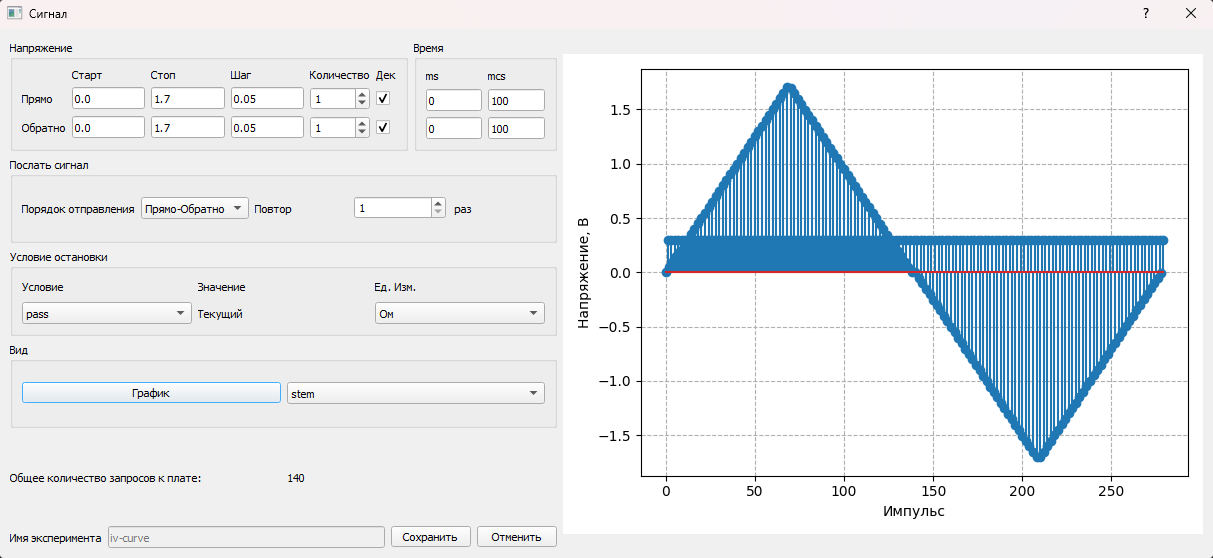
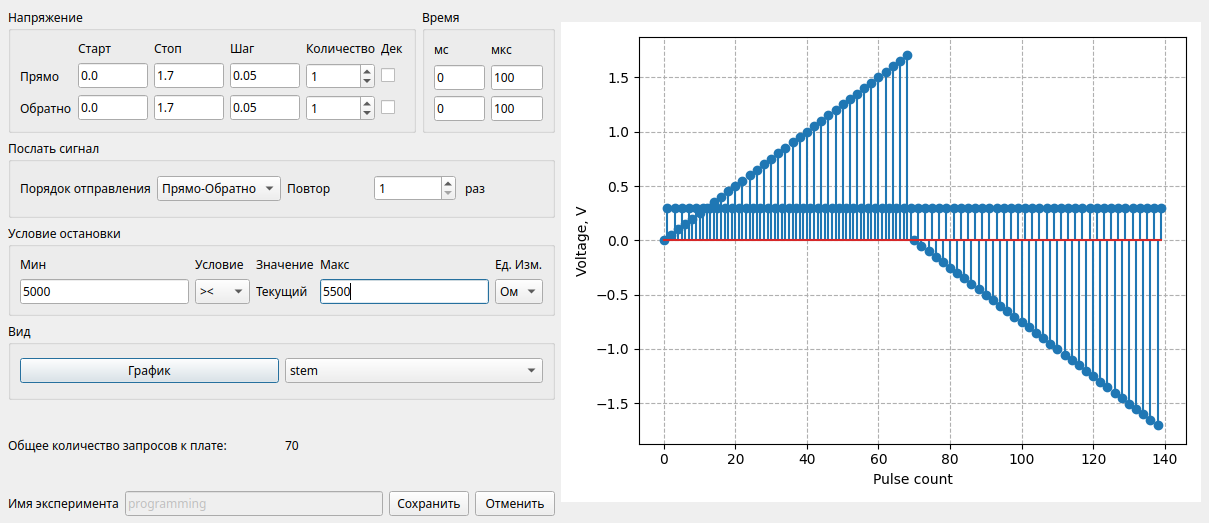
Russian manual finished

diff --git a/docs/README_rus.md b/docs/README_rus.md
@@ -1,28 +1,25 @@
 # Руководство пользователя MemriBoard
 
-## Содержание FIXME
+## Содержание
 
 - [**Общие сведения о программе**](#общие-сведения-о-программе)
-- [**Connecting the crossbar array**](#connecting-the-crossbar-array)
-  - [Creating new database entry](#creating-a-database-entry-for-new-crossbar-array)
-    - [Settings](#settings)
-- [**Main window**](#main-window)
-  - [Shortcuts](#shortcuts)
-- [**Working with individual cells**](#working-with-individual-cells)
-  - [History window](#history-window)
-- [**Configuring your experiment**](#configuring-your-experiment)
-  - [Signal editing](#signal-editing-window)
-    - [Standart pulse sequence](#standart-pulse-sequence)
-    - [Terminate condition](#terminate-condition)
-- [**Applying the experiment**](#applying-the-experiment)
-- [**Testing multiple cells**](#testsing-multiple-cells)
-
-- [Общие сведения о программе](#общие-сведения-о-программе)
-- [Работа с ячейками](#работа-с-ячейками)
+- [**Подключение измерительного устройства**](#подключение-измерительного-устройства)
+  - [Добавление нового кроссбара](#добавление-нового-кроссбара)
+    - [Настройки](#настройки)
+- [**Главное окно**](#главное-окно)
+  - [Дополнительный функционал](#другие-функции-главного-окна)
+- [**Работа с отдельными ячейками**](#работа-с-отдельными-ячейками)
+  - [Окно истории ячейки](#окно-истории-ячейки)
+- [**Конфигурация эксперимента**](#конфигурация-эксперимента)
+  - [Редактирование сигнала](#окно-редактирования-сигнала)
+    - [Стандартная последовательность импульсов](#стандартная-последовательность-импульсов)
+    - [Условие остановки](#условие-остановки)
+- [**Проведение эксперимента**](#проведение-эксперимента)
+- [**Выполнение теста на нескольких ячейках**](#выполнение-теста-на-нескольких-ячейках)
 
 ## Общие сведения о программе
 
-<Программа может быть запущена на любой операционной системе c поддержкой python 3.9 и выше.
+Программа может быть запущена на любой операционной системе c поддержкой python 3.9 и выше.
 
 ### Подключение измерительного устройства
 
@@ -99,36 +96,94 @@
 
 ![Окно плана эксперимента](assets_rus/new_exp.png)
 
-- "Новый эксперимент" - открывает окно создания эксперимента.
-Позволяет создать новый эксперимент с ячейкой. Он составляется из предустановленных сигналов, присутствует возможность добавить свой вид сигнала, для этого нужно нажать кнопку "Новый эксперимент". Для добавления сигнала в эксперимент нужно выбрать сигнал и кликнуть два раза левой кнопкой мыши, или нажать кнопку "Добавить в план". 
-Справа расположен столбец с планом эксперимента, где расписана последовательность сигналов. При необходимости можно править параметры сигнала, переместить его относительно остальных, или удалить. После настройки параметров необходимо ввести название эксперимента.
+Окно позволяет создать новый эксперимент с ячейкой. Он составляется из тикетов &mdash; предустановленных сигналов, например, iv-curve, endurance, programming, и т. д. В план эксперимента можно добавить несколько тикетов из левой части окна (кнопка **Добавить в план**), или создать новый тике (кнопка **Новый** в левом нижнем углу).
+Кнопка **Загрузить** в правой части окна позволяет загрузить эксперимент, который ранее был применен к одной из ячеек. Все параметры тикетов, составляющих эксперимент, будут сохранены.
+Доступен **импорт** тикетов из файлов *.json*.
+В правой части окна можно ввести **название эксперимента**, оно будет отображаться в истории ячейки.
 
+По умолчанию в приложении доступны следующие тикеты:
 
-При редактировании сигнала, или создании нового, открывается окно редактирования сигнала. Каждый сигнал состоит из двух частей - настраиваемый импульс воздействия на ячейку, и импульс считывания состояния ячейки. Импульс взаимодействия имеет настройки амплитуды, длительности, и порядок подачи сигнала в случае его множественности. Сигнал может быть как прямой (reset), так и обратный (set). Присутствует возможность задать причину прерывания сигнала и предварительный просмотр его графика. Старт, стоп и шаг указываются в вольтах.
-Например, для снятия ВАХ ячейки, указываются такие параметры: 
+- *blank* &mdash; пустой тикет. На его основе можно создать свой.
+- *endurance* &mdash; стандартный тест на выносливость при импульсном переключении для мемристорных ячеек памяти.
+- *iv-curve*, *iv-curve-set*, *iv-curve-reset*, *iv-curve-reversed* &mdash; тикеты для измерения вольт-амперных характеристик.
+- *measure* &mdash; тикет для измерения сопротивления ячейки.
+- *programming*, *programming-reversed* &mdash; для программирования необходимого резистивного состояния (см. [Условие остановки](#условие-остановки)).
+- *retention* &mdash; тикет для измерения длительности удержания логических состояний.
+- *plast-dep-pot*, *plast-pot-dep* &mdash; тикеты для изучения потенциации и депрессии мемристорных ячеек.
 
-|       |Старт|Стоп|Шаг |Количество|Декремент|МС|МКС|
-|-------|-----|----|----|----------|---------|--|---|
-|Прямо  |0.0  |1.6 |0.05|     1    |    +    | 0|100|
-|Обратно|0.0  |1.2 |0.05|     1    |    +    | 0|100|
+### Окно редактирования сигнала
 
-*Подача сигнала: прямо-обратно; Повторить: 1 раз*
+Окно открывается из [плана эксперимента](#конфигурация-эксперимента) и позволяет настроить сигнал, который применяется к мемристорной ячейке в рамках одного тикета.
 
-###### Результат настройки сигнала:
 ![Окно настройки сигнала](assets_rus/signal.png)
 
-Для запуска созданного эксперимента необходимо нажать кнопку "Применить к ячейке" для применения к выбранной ячейке.
-После этого откроется окно проведения эксперимента. Оно содержит: 
-- Поле отрисовки графика. Есть возможность изменить отображаемые по осям данные и изменить метод отображения (точки, линия, звёздочки). Если отрисовка графика в реальном времени не требуется, реккомендуется выключить настройку "Отображение" ниже. 
-- Панель управления экспериментом. Кнопки запуска, паузы и остановки эксперимента, а так же шкала прогресса проведения эксперимента.
-После выполнения эксперимента будет показано уведомление о завершении, и в случае срабатывания программного [ограничителя тока](#настройки).
-###### Окно проведения эксперимента с ВАХ ячейки:
+Амплитуды импульсов set и reset контролируются независимо в верхней части окна: задается амплитуда импульса (в вольтах) и его ширина (время в мс и мкс). Поле **Количество** позволяет указать количество разверток set или reset в рамках одного цикла set-reset. Поле **Повтор** задает количество циклов set-reset. Если флаг **Дек** выключен, развертка проходит от напряжения **Старт** до напряжения **Стоп** с заданным **Шагом**. Если флаг **Дек** включен, развертка также идет от **Стоп** до **Старт**.
+Кнопка **График** позволяет посмотреть график сигнала.
+Например, измерение 10 вольт-амперных характеристик можно провести следующими параметрами:
+
+|             |Старт| Стоп|  Шаг | Количество |Декремент|Время, мс|Время, мкс|
+|-------------|-----|-----|------|------------|---------|---------|----------|
+|  **Прямо**  | 0.0 | 1.6 | 0.05 |     1      |    +    |    0    |    100   |
+| **Обратно** | 0.0 | 1.2 | 0.05 |     1      |    +    |    0    |    100   |
+
+**Подача сигнала**: прямо-обратно; **Повторить**: 10 раз
+
+#### Стандартная последовательность импульсов
+
+Каждая точка измерения состоит из двух частей &mdash; импульса напряжения с настраиваемой амплитудой для изменения резистивного состояния ячейки, и импульса чтения, следующего за ним. Амплитуда импульса переключения задается в файле *settings.ini*. Амплитуда переключающих импульсов задается в [окне редактирования сигнала](#окно-редактирования-сигнала).
+Во время эксперимента сопротивление ячейки контролируется только импульсами чтения постоянной амплитуды.
+
+#### Условие остановки
+
+Условие остановки тикет может быть задано в [окне редактирования сигнала](#окно-редактирования-сигнала), оно проверяется ***при получении каждой точки измерения***. Условие **pass** выключает условие остановки. Для других условий необходимо ввести условие в поле **Значение** (или полях **Мин** и **Макс**), оно будет сравниваться с **текущим** значением сопротивления.
+Например, на [рисунке с окном редактирования сигнала](#окно-редактирования-сигнала) демонстрируется стандартное условие остановки для программирования резистивных состояний ***алгоритмом write-verify***: установлено **Условие** **><**. Эксперимент (только для этого тикета) автоматически остановится, когда сопротивление ячейки окажется в диапазоне от 5000 до 5500 Ом.
+Для повышения вероятности успешного программирования ячейки можно увеличить количество циклов set-reset.
+После тикета программирования можно добавить другие тикеты (например, retention) для создания автономного эксперимента.
+
+## Проведение эксперимента
+
+Окно проведения эксперимента открывается из [окна конфигурации эксперимента](#конфигурация-эксперимента) при помощи кнопки **применить к ячейке**.
+
 ![Окно проведения эксперимента](assets_rus/apply.png)
-</p>
 
+Окно содержит поле отрисовки графика. Если отрисовка графика в реальном времени не требуется, можно его выключить (флаг **Вид**).
+Сдвиг области отрисовки осуществляется левой кнопкой мыши. По нажатию на правую кнопку мыши открывается меню с настройками отображения. К примеру, можно установить **логарифмический масштаб** графика открытием меню &rarr; Plot Options &rarr; Transforms &rarr; log Y.
+В нижней части окна можно выбрать, данные, отображаемые во время эксперимента: **Ось X** может показывать *Отсчеты* (номер импульса) или *Напряжение*. **Ось Y** может отображать *Сопротивление*, *Ток* или *Отсчеты АЦП*. Эти настройки можно также изменять колесиком мыши.
+Есть возможность изменить отображаемые по осям данные и изменить метод отображения (*точки*, *линия*, *звёздочки*).
+В нижней части окна располагается **панель управления экспериментом**. Здесь находятся кнопки начала, паузы и остановки эксперимента.
+После выполнения эксперимента будет показано уведомление о завершении. В случае срабатывания программного [ограничителя тока](#настройки) будет показано предупреждение.
 
-<!-- 
-### Инференс нейросети
+## Выполнение теста на нескольких ячейках
 
+Окно Тесты открывается при помощи кнопки **Тесты** на [Главном окне](#главное-окно). В нем можно сконфигурировать эксперимент и применить его к нескольким ячейкам.
 
-### Демо нейросети -->
+![Окно Тесты](assets_rus/testing_window.png)
+
+Для проведения теста на нескольких ячеек необходимо выполнить следующие действия:
+
+1. Установить **Путь** к папке, куда будут сохранены результаты теста (кнопка **Обзор**). Результаты экспериментов будут автоматически экспортироваться в эту папку во время проведения теста. Лучше всего создавать отдельные папки для каждого теста на множество ячеек.
+2. В нижней части окна, во вкладке **Управление тестом**, нажмите кнопку **Эксперимент**. Откроется [окно истории](#окно-истории-ячейки). В нем необходимо выбрать один из ранее проведенных экспериментов и **загрузить** его в [план эксперимента](#конфигурация-эксперимента). Далее в окне плана можно редактировать эксперимент. После этого необходимо нажать кнопку **Применить ко всем**.
+3. В окне **Тесты** можно выбрать ячейки, для которых будет проведен эксперимент, или применить его ко всем ячейкам в кроссбар-матрице. Чтобы указать ячейки, создайте файл *.csv* согласно примеру ниже. Файл должен содержать две колонки, задающие столбец (wl) и строку (bl) ячеек. Каждая строка должна содержать координаты ячеек, для которых выполняется тест. Для загрузки файла нажмите кнопку **Ячейки** на окне Тесты.
+4. Для запуска теста нажмите кнопку **Запустить**. Появится окно подтверждения с расчетным временем эксперимента (расчет времени на данный момент работает некорректно для некоторых видов измерительного оборудования). Тест начнется по нажатии кнопки **Да** на подтверждающем окне. Визуализация во время эксперимента не поддерживается в этом режиме, но доступна шкала выполнения тестов. Проверить выполнение также можно заглянув в папку с результатами: там появляются файлы после завершения эксперимента на каждой ячейке.
+
+Пример файла, задающего ячейки, к которым применяется эксперимент:
+
+![Пример файла с ячейками для тестов](assets/cells_testing_example.png)
+
+### Анализ результатов
+
+После окончания эксперимента можно проанализировать результаты:
+
+1. Откройте вкладку **Анализ результатов** на окне **Тесты**.
+2. Программа рассчитывает максимальное (**Rmax**) и минимальное сопротивление (**Rmin**), зафиксированное на ячейке во время эксперимента. Выберите одно или несколько условий (при выборе нескольких применяется логическое *и*) для сопротивлений или их отношений и нажмите **Посчитать**.
+3. Программа рассчитает количество ячеек, которые удовлетворяют условиям (**Подходящие**).
+4. В папке с результатами эксперимента появится папка с результатами анализа. В ней находятся файлы с координатами ячеек, удовлетворяющих условиям (**good_cells**), с ячейками, не удовлетворяющими условиям (**bad_cells**), и карта кроссбара.
+
+### Визуализация результатов
+
+После окончания эксперимента можно сгенерировать графики с результатами:
+
+1. Откройте вкладку **Визуализация** на окне **Тесты**.
+2. Выберите данные, которые будут отображаться на осях X и Y.
+3. Нажмите кнопку **Построить графики**.
+4. В папке с результатами эксперимента появится папка с изображениями.

diff --git a/docs/README.md b/docs/README.md
@@ -7,7 +7,7 @@
   - [Creating new database entry](#creating-a-database-entry-for-new-crossbar-array)
     - [Settings](#settings)
 - [**Main window**](#main-window)
-  - [Shortcuts](#other-main-window-functionality)
+  - [Additional functionality](#other-main-window-functionality)
 - [**Working with individual cells**](#working-with-individual-cells)
   - [History window](#history-window)
 - [**Configuring your experiment**](#configuring-your-experiment)
@@ -99,7 +99,7 @@ Experiment configuration window can be opened via [Cell info](#working-with-indi
 ![Experiment plan window](assets/new_exp.png)
 
 The window allows you to create a new experiment with a cell. It is made up of tickets &mdash; preset experiments, such as iv-curve, endurance, programming, etc. You can **add** multiple tickets from left side of the window to the experiment plan (**Add to plan** button), or you can create a new ticket (**New** button in the bottom left corner).
-The **Load** button on the right side of the window allows you to load a ticket that was previously applied to one of the cells. All parameters of that ticket will be loaded to the experiment.
+The **Load** button on the right side of the window allows you to load an experiment plan that was previously applied to one of the cells. All parameters of those tickets will be loaded to the experiment.
 You can also directly **import** tickets from a *.json* file.
 You can enter the experiment **name** in the lower right part of the window.
 
@@ -123,6 +123,7 @@ The signal window is opened via [Experiment plan](#configuring-your-experiment) 
 ![Signal Setup Window](assets/signal.png)
 
 Set and reset signals can be controlled independently in the top half of the window: the pulse amplitudes (in volts) and widths (**Time: ms and μs**) can be adjusted. The **Amount** field specifies the amount of set or reset sweeps in a set-reset cycle, the **Repeat** fields specifies the total number of set-reset cycles. If the **Dec** flag is off, the voltage sweeps from **Start** to **Stop** with the specified **Step**. If the **Dec** flag is on, the voltage also sweeps from **Stop** to **Start**.
+The **Show** button shows the signal plot.
 For example, measuring 10 IV curves requires the following parameters:
 
 |            |Start| Stop| Step | Quantity |Decrement| Time, ms| Time, μs |
@@ -130,11 +131,11 @@ For example, measuring 10 IV curves requires the following parameters:
 | **Reset**  | 0.0 | 1.6 | 0.05 |     1    |    +    |    0    |    100   |
 |  **Set**   | 0.0 | 1.2 | 0.05 |     1    |    +    |    0    |    100   |
 
-**Sending order:** Reset-Set; **Repeat**: 10 times
+**Sending order**: Reset-Set; **Repeat**: 10 times
 
 #### Standard pulse sequence
 
-Each measurement point consists of two parts &mdash; a voltage pulse with the adjustable amplitude for changing the resistive state of the cell, and a read pulse that always follows it. The amplitude of the reading pulse is fixed in the *settings.ini* file.
+Each measurement point consists of two parts &mdash; a voltage pulse with the adjustable amplitude for changing the resistive state of the cell, and a read pulse that always follows it. The amplitude of the reading pulse is fixed in the *settings.ini* file. The amplitude of the pulse that changes the resistive state is controlled in the [signal editing window](#signal-editing-window).
 During the experiment, the resistive state of the cell is controlled only via read pulses with constant amplitude.
 
 #### Terminate condition
